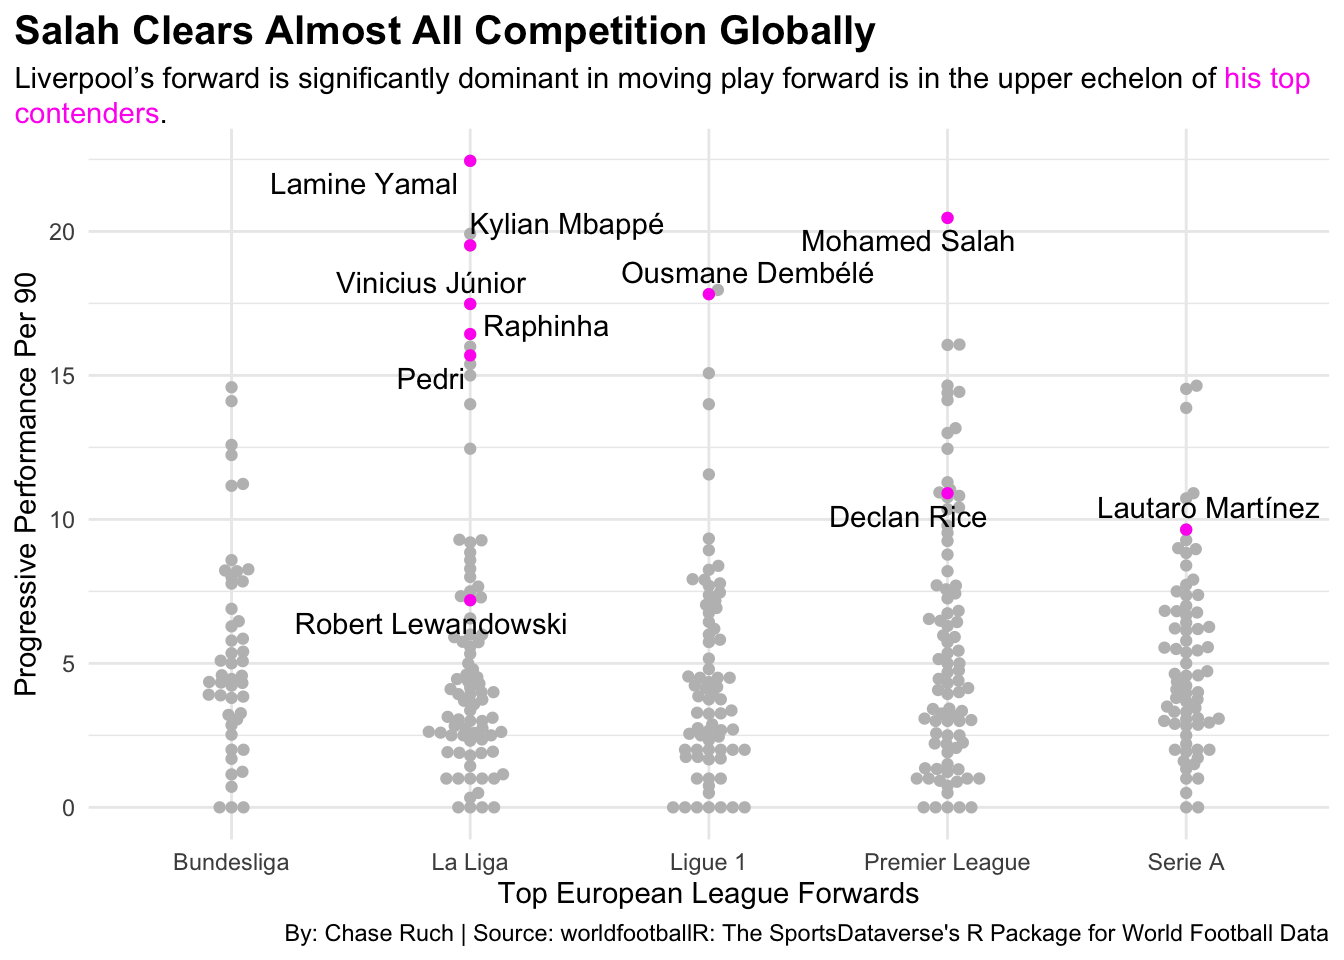
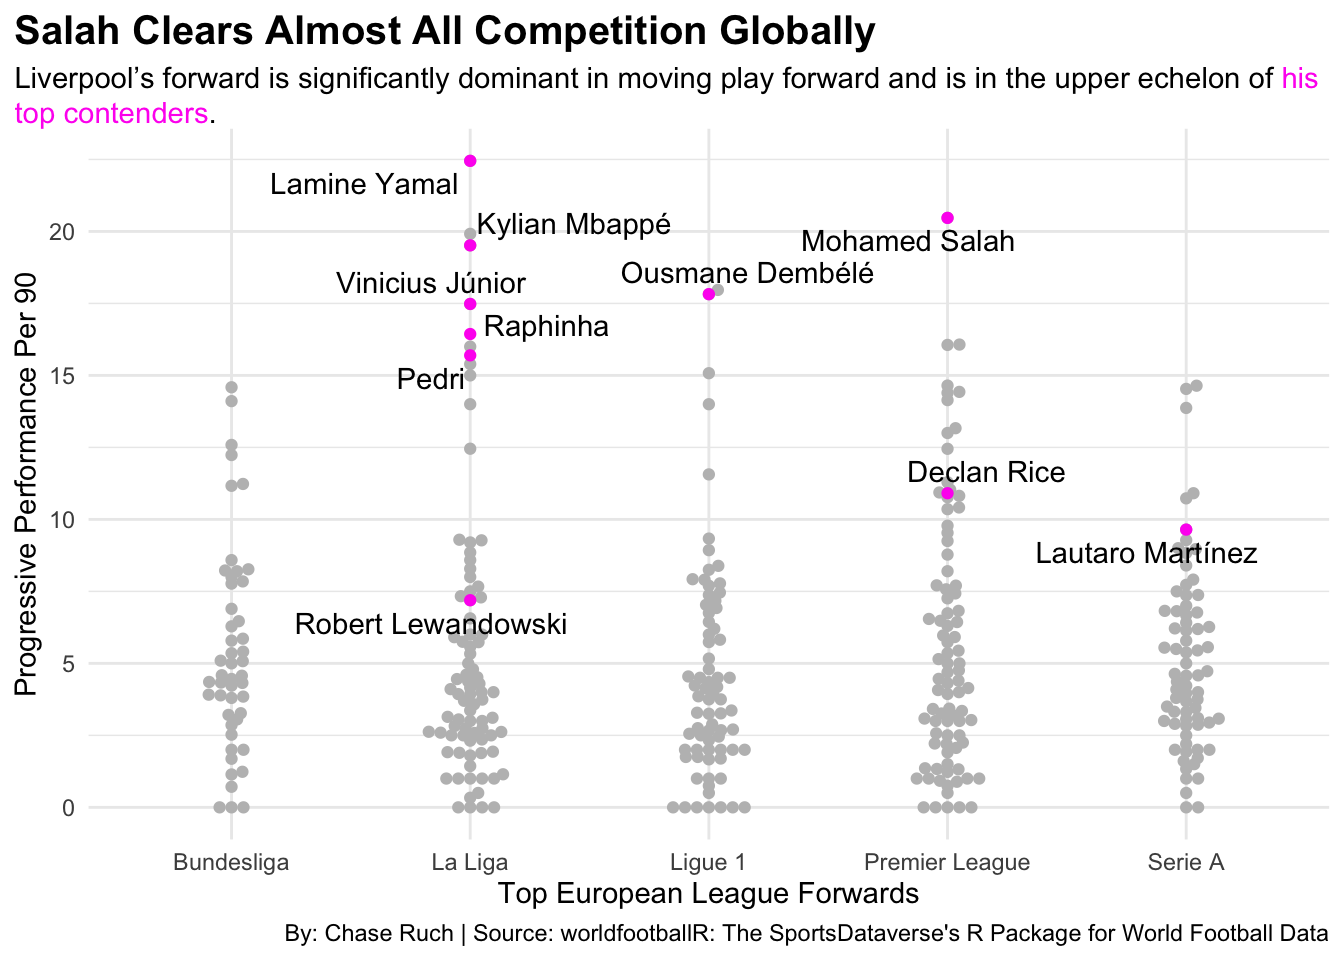
grammar fix 1

diff --git a/posts/salah-performance-analysis/index.html b/posts/salah-performance-analysis/index.html
@@ -312,23 +312,23 @@ pre > code.sourceCode > span > a:first-child::before { text-decoration: underlin
 <span id="cb2-64"><a href="#cb2-64" aria-hidden="true" tabindex="-1"></a>  )</span></code><button title="Copy to Clipboard" class="code-copy-button"><i class="bi"></i></button></pre></div>
 </details>
 <div class="cell-output-display">
-<div id="ixsuddgbpb" style="padding-left:0px;padding-right:0px;padding-top:10px;padding-bottom:10px;overflow-x:auto;overflow-y:auto;width:auto;height:auto;">
-<style>#ixsuddgbpb table {
+<div id="uwzwptggzz" style="padding-left:0px;padding-right:0px;padding-top:10px;padding-bottom:10px;overflow-x:auto;overflow-y:auto;width:auto;height:auto;">
+<style>#uwzwptggzz table {
   font-family: system-ui, 'Segoe UI', Roboto, Helvetica, Arial, sans-serif, 'Apple Color Emoji', 'Segoe UI Emoji', 'Segoe UI Symbol', 'Noto Color Emoji';
   -webkit-font-smoothing: antialiased;
   -moz-osx-font-smoothing: grayscale;
 }
 
-#ixsuddgbpb thead, #ixsuddgbpb tbody, #ixsuddgbpb tfoot, #ixsuddgbpb tr, #ixsuddgbpb td, #ixsuddgbpb th {
+#uwzwptggzz thead, #uwzwptggzz tbody, #uwzwptggzz tfoot, #uwzwptggzz tr, #uwzwptggzz td, #uwzwptggzz th {
   border-style: none;
 }
 
-#ixsuddgbpb p {
+#uwzwptggzz p {
   margin: 0;
   padding: 0;
 }
 
-#ixsuddgbpb .gt_table {
+#uwzwptggzz .gt_table {
   display: table;
   border-collapse: collapse;
   line-height: normal;
@@ -354,12 +354,12 @@ pre > code.sourceCode > span > a:first-child::before { text-decoration: underlin
   border-left-color: #D3D3D3;
 }
 
-#ixsuddgbpb .gt_caption {
+#uwzwptggzz .gt_caption {
   padding-top: 4px;
   padding-bottom: 4px;
 }
 
-#ixsuddgbpb .gt_title {
+#uwzwptggzz .gt_title {
   color: #333333;
   font-size: 125%;
   font-weight: initial;
@@ -371,7 +371,7 @@ pre > code.sourceCode > span > a:first-child::before { text-decoration: underlin
   border-bottom-width: 0;
 }
 
-#ixsuddgbpb .gt_subtitle {
+#uwzwptggzz .gt_subtitle {
   color: #333333;
   font-size: 85%;
   font-weight: initial;
@@ -383,7 +383,7 @@ pre > code.sourceCode > span > a:first-child::before { text-decoration: underlin
   border-top-width: 0;
 }
 
-#ixsuddgbpb .gt_heading {
+#uwzwptggzz .gt_heading {
   background-color: #FFFFFF;
   text-align: center;
   border-bottom-color: #FFFFFF;
@@ -395,13 +395,13 @@ pre > code.sourceCode > span > a:first-child::before { text-decoration: underlin
   border-right-color: #D3D3D3;
 }
 
-#ixsuddgbpb .gt_bottom_border {
+#uwzwptggzz .gt_bottom_border {
   border-bottom-style: solid;
   border-bottom-width: 2px;
   border-bottom-color: #D3D3D3;
 }
 
-#ixsuddgbpb .gt_col_headings {
+#uwzwptggzz .gt_col_headings {
   border-top-style: solid;
   border-top-width: 2px;
   border-top-color: #D3D3D3;
@@ -416,7 +416,7 @@ pre > code.sourceCode > span > a:first-child::before { text-decoration: underlin
   border-right-color: #D3D3D3;
 }
 
-#ixsuddgbpb .gt_col_heading {
+#uwzwptggzz .gt_col_heading {
   color: #333333;
   background-color: #FFFFFF;
   font-size: 100%;
@@ -436,7 +436,7 @@ pre > code.sourceCode > span > a:first-child::before { text-decoration: underlin
   overflow-x: hidden;
 }
 
-#ixsuddgbpb .gt_column_spanner_outer {
+#uwzwptggzz .gt_column_spanner_outer {
   color: #333333;
   background-color: #FFFFFF;
   font-size: 100%;
@@ -448,15 +448,15 @@ pre > code.sourceCode > span > a:first-child::before { text-decoration: underlin
   padding-right: 4px;
 }
 
-#ixsuddgbpb .gt_column_spanner_outer:first-child {
+#uwzwptggzz .gt_column_spanner_outer:first-child {
   padding-left: 0;
 }
 
-#ixsuddgbpb .gt_column_spanner_outer:last-child {
+#uwzwptggzz .gt_column_spanner_outer:last-child {
   padding-right: 0;
 }
 
-#ixsuddgbpb .gt_column_spanner {
+#uwzwptggzz .gt_column_spanner {
   border-bottom-style: solid;
   border-bottom-width: 2px;
   border-bottom-color: #D3D3D3;
@@ -468,11 +468,11 @@ pre > code.sourceCode > span > a:first-child::before { text-decoration: underlin
   width: 100%;
 }
 
-#ixsuddgbpb .gt_spanner_row {
+#uwzwptggzz .gt_spanner_row {
   border-bottom-style: hidden;
 }
 
-#ixsuddgbpb .gt_group_heading {
+#uwzwptggzz .gt_group_heading {
   padding-top: 8px;
   padding-bottom: 8px;
   padding-left: 5px;
@@ -498,7 +498,7 @@ pre > code.sourceCode > span > a:first-child::before { text-decoration: underlin
   text-align: left;
 }
 
-#ixsuddgbpb .gt_empty_group_heading {
+#uwzwptggzz .gt_empty_group_heading {
   padding: 0.5px;
   color: #333333;
   background-color: #FFFFFF;
@@ -513,15 +513,15 @@ pre > code.sourceCode > span > a:first-child::before { text-decoration: underlin
   vertical-align: middle;
 }
 
-#ixsuddgbpb .gt_from_md > :first-child {
+#uwzwptggzz .gt_from_md > :first-child {
   margin-top: 0;
 }
 
-#ixsuddgbpb .gt_from_md > :last-child {
+#uwzwptggzz .gt_from_md > :last-child {
   margin-bottom: 0;
 }
 
-#ixsuddgbpb .gt_row {
+#uwzwptggzz .gt_row {
   padding-top: 8px;
   padding-bottom: 8px;
   padding-left: 5px;
@@ -540,7 +540,7 @@ pre > code.sourceCode > span > a:first-child::before { text-decoration: underlin
   overflow-x: hidden;
 }
 
-#ixsuddgbpb .gt_stub {
+#uwzwptggzz .gt_stub {
   color: #333333;
   background-color: #FFFFFF;
   font-size: 100%;
@@ -553,7 +553,7 @@ pre > code.sourceCode > span > a:first-child::before { text-decoration: underlin
   padding-right: 5px;
 }
 
-#ixsuddgbpb .gt_stub_row_group {
+#uwzwptggzz .gt_stub_row_group {
   color: #333333;
   background-color: #FFFFFF;
   font-size: 100%;
@@ -567,15 +567,15 @@ pre > code.sourceCode > span > a:first-child::before { text-decoration: underlin
   vertical-align: top;
 }
 
-#ixsuddgbpb .gt_row_group_first td {
+#uwzwptggzz .gt_row_group_first td {
   border-top-width: 2px;
 }
 
-#ixsuddgbpb .gt_row_group_first th {
+#uwzwptggzz .gt_row_group_first th {
   border-top-width: 2px;
 }
 
-#ixsuddgbpb .gt_summary_row {
+#uwzwptggzz .gt_summary_row {
   color: #333333;
   background-color: #FFFFFF;
   text-transform: inherit;
@@ -585,16 +585,16 @@ pre > code.sourceCode > span > a:first-child::before { text-decoration: underlin
   padding-right: 5px;
 }
 
-#ixsuddgbpb .gt_first_summary_row {
+#uwzwptggzz .gt_first_summary_row {
   border-top-style: solid;
   border-top-color: #D3D3D3;
 }
 
-#ixsuddgbpb .gt_first_summary_row.thick {
+#uwzwptggzz .gt_first_summary_row.thick {
   border-top-width: 2px;
 }
 
-#ixsuddgbpb .gt_last_summary_row {
+#uwzwptggzz .gt_last_summary_row {
   padding-top: 8px;
   padding-bottom: 8px;
   padding-left: 5px;
@@ -604,7 +604,7 @@ pre > code.sourceCode > span > a:first-child::before { text-decoration: underlin
   border-bottom-color: #D3D3D3;
 }
 
-#ixsuddgbpb .gt_grand_summary_row {
+#uwzwptggzz .gt_grand_summary_row {
   color: #333333;
   background-color: #FFFFFF;
   text-transform: inherit;
@@ -614,7 +614,7 @@ pre > code.sourceCode > span > a:first-child::before { text-decoration: underlin
   padding-right: 5px;
 }
 
-#ixsuddgbpb .gt_first_grand_summary_row {
+#uwzwptggzz .gt_first_grand_summary_row {
   padding-top: 8px;
   padding-bottom: 8px;
   padding-left: 5px;
@@ -624,7 +624,7 @@ pre > code.sourceCode > span > a:first-child::before { text-decoration: underlin
   border-top-color: #D3D3D3;
 }
 
-#ixsuddgbpb .gt_last_grand_summary_row_top {
+#uwzwptggzz .gt_last_grand_summary_row_top {
   padding-top: 8px;
   padding-bottom: 8px;
   padding-left: 5px;
@@ -634,11 +634,11 @@ pre > code.sourceCode > span > a:first-child::before { text-decoration: underlin
   border-bottom-color: #D3D3D3;
 }
 
-#ixsuddgbpb .gt_striped {
+#uwzwptggzz .gt_striped {
   background-color: rgba(128, 128, 128, 0.05);
 }
 
-#ixsuddgbpb .gt_table_body {
+#uwzwptggzz .gt_table_body {
   border-top-style: solid;
   border-top-width: 2px;
   border-top-color: #D3D3D3;
@@ -647,7 +647,7 @@ pre > code.sourceCode > span > a:first-child::before { text-decoration: underlin
   border-bottom-color: #D3D3D3;
 }
 
-#ixsuddgbpb .gt_footnotes {
+#uwzwptggzz .gt_footnotes {
   color: #333333;
   background-color: #FFFFFF;
   border-bottom-style: none;
@@ -661,7 +661,7 @@ pre > code.sourceCode > span > a:first-child::before { text-decoration: underlin
   border-right-color: #D3D3D3;
 }
 
-#ixsuddgbpb .gt_footnote {
+#uwzwptggzz .gt_footnote {
   margin: 0px;
   font-size: 90%;
   padding-top: 4px;
@@ -670,7 +670,7 @@ pre > code.sourceCode > span > a:first-child::before { text-decoration: underlin
   padding-right: 5px;
 }
 
-#ixsuddgbpb .gt_sourcenotes {
+#uwzwptggzz .gt_sourcenotes {
   color: #333333;
   background-color: #FFFFFF;
   border-bottom-style: none;
@@ -684,7 +684,7 @@ pre > code.sourceCode > span > a:first-child::before { text-decoration: underlin
   border-right-color: #D3D3D3;
 }
 
-#ixsuddgbpb .gt_sourcenote {
+#uwzwptggzz .gt_sourcenote {
   font-size: 90%;
   padding-top: 4px;
   padding-bottom: 4px;
@@ -692,72 +692,72 @@ pre > code.sourceCode > span > a:first-child::before { text-decoration: underlin
   padding-right: 5px;
 }
 
-#ixsuddgbpb .gt_left {
+#uwzwptggzz .gt_left {
   text-align: left;
 }
 
-#ixsuddgbpb .gt_center {
+#uwzwptggzz .gt_center {
   text-align: center;
 }
 
-#ixsuddgbpb .gt_right {
+#uwzwptggzz .gt_right {
   text-align: right;
   font-variant-numeric: tabular-nums;
 }
 
-#ixsuddgbpb .gt_font_normal {
+#uwzwptggzz .gt_font_normal {
   font-weight: normal;
 }
 
-#ixsuddgbpb .gt_font_bold {
+#uwzwptggzz .gt_font_bold {
   font-weight: bold;
 }
 
-#ixsuddgbpb .gt_font_italic {
+#uwzwptggzz .gt_font_italic {
   font-style: italic;
 }
 
-#ixsuddgbpb .gt_super {
+#uwzwptggzz .gt_super {
   font-size: 65%;
 }
 
-#ixsuddgbpb .gt_footnote_marks {
+#uwzwptggzz .gt_footnote_marks {
   font-size: 75%;
   vertical-align: 0.4em;
   position: initial;
 }
 
-#ixsuddgbpb .gt_asterisk {
+#uwzwptggzz .gt_asterisk {
   font-size: 100%;
   vertical-align: 0;
 }
 
-#ixsuddgbpb .gt_indent_1 {
+#uwzwptggzz .gt_indent_1 {
   text-indent: 5px;
 }
 
-#ixsuddgbpb .gt_indent_2 {
+#uwzwptggzz .gt_indent_2 {
   text-indent: 10px;
 }
 
-#ixsuddgbpb .gt_indent_3 {
+#uwzwptggzz .gt_indent_3 {
   text-indent: 15px;
 }
 
-#ixsuddgbpb .gt_indent_4 {
+#uwzwptggzz .gt_indent_4 {
   text-indent: 20px;
 }
 
-#ixsuddgbpb .gt_indent_5 {
+#uwzwptggzz .gt_indent_5 {
   text-indent: 25px;
 }
 
-#ixsuddgbpb .katex-display {
+#uwzwptggzz .katex-display {
   display: inline-flex !important;
   margin-bottom: 0.75em !important;
 }
 
-#ixsuddgbpb div.Reactable > div.rt-table > div.rt-thead > div.rt-tr.rt-tr-group-header > div.rt-th-group:after {
+#uwzwptggzz div.Reactable > div.rt-table > div.rt-thead > div.rt-tr.rt-tr-group-header > div.rt-th-group:after {
   height: 0px !important;
 }
 </style>
@@ -902,7 +902,7 @@ pre > code.sourceCode > span > a:first-child::before { text-decoration: underlin
 <span id="cb3-33"><a href="#cb3-33" aria-hidden="true" tabindex="-1"></a>  <span class="fu">theme_minimal</span>() <span class="sc">+</span></span>
 <span id="cb3-34"><a href="#cb3-34" aria-hidden="true" tabindex="-1"></a><span class="fu">labs</span>(</span>
 <span id="cb3-35"><a href="#cb3-35" aria-hidden="true" tabindex="-1"></a>    <span class="at">title=</span><span class="st">"Salah Clears Almost All Competition Globally"</span>, </span>
-<span id="cb3-36"><a href="#cb3-36" aria-hidden="true" tabindex="-1"></a>    <span class="at">subtitle =</span> <span class="st">"Liverpool's forward is significantly dominant in moving play forward is in the upper echelon of &lt;span style = 'color:#FF10F0;'&gt;his top contenders&lt;/span&gt;."</span>,</span>
+<span id="cb3-36"><a href="#cb3-36" aria-hidden="true" tabindex="-1"></a>    <span class="at">subtitle =</span> <span class="st">"Liverpool's forward is significantly dominant in moving play forward and is in the upper echelon of &lt;span style = 'color:#FF10F0;'&gt;his top contenders&lt;/span&gt;."</span>,</span>
 <span id="cb3-37"><a href="#cb3-37" aria-hidden="true" tabindex="-1"></a>    <span class="at">x=</span><span class="st">"Top European League Forwards"</span>,</span>
 <span id="cb3-38"><a href="#cb3-38" aria-hidden="true" tabindex="-1"></a>    <span class="at">y=</span><span class="st">"Progressive Performance Per 90"</span>,</span>
 <span id="cb3-39"><a href="#cb3-39" aria-hidden="true" tabindex="-1"></a>    <span class="at">caption=</span><span class="st">"By: Chase Ruch | Source: worldfootballR: The SportsDataverse's R Package for World Football Data"</span></span>

diff --git a/index.html b/index.html
@@ -200,7 +200,7 @@ window.Quarto = {
 
 <div class="quarto-listing quarto-listing-container-default" id="listing-listing">
 <div class="list quarto-listing-default">
-<div class="quarto-post image-right" data-index="0" data-categories="c29jY2VyJTJDZXVyb3BlJTJDc2FsYWg=" data-listing-date-sort="1746334800000" data-listing-file-modified-sort="1746404740472" data-listing-date-modified-sort="NaN" data-listing-reading-time-sort="8" data-listing-word-count-sort="1408">
+<div class="quarto-post image-right" data-index="0" data-categories="c29jY2VyJTJDZXVyb3BlJTJDc2FsYWg=" data-listing-date-sort="1746334800000" data-listing-file-modified-sort="1746412926641" data-listing-date-modified-sort="NaN" data-listing-reading-time-sort="8" data-listing-word-count-sort="1409">
 <div class="thumbnail">
 <p><a href="./posts/salah-performance-analysis/index.html" class="no-external"></a></p><a href="./posts/salah-performance-analysis/index.html" class="no-external">
 <p><img loading="lazy" src="./posts/salah-performance-analysis/image2.png" class="thumbnail-image"></p>
